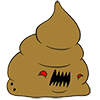
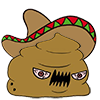
PowerUp Sound ready, SuperKakachu ready Working on the refactoring  - JCLG Waiting for Collision - Jesus

diff --git a/Scripts/Game/Main.js b/Scripts/Game/Main.js
@@ -12,9 +12,11 @@ define(function (require) {
     var kakachu = new GameElement({
         width: 75,
         height: 75,
-        imageSource: 'Images/Kakachu.png',
+        //imageSource: 'Images/Kakachu.png',
+        imageSource: 'Images/SuperKakachu.png',
         x: 0,
-        y: 280,
+        //y: 280,
+        y:260,
         canvas: canvas5,
         updateFn: Util.slideBG(0)
     });
